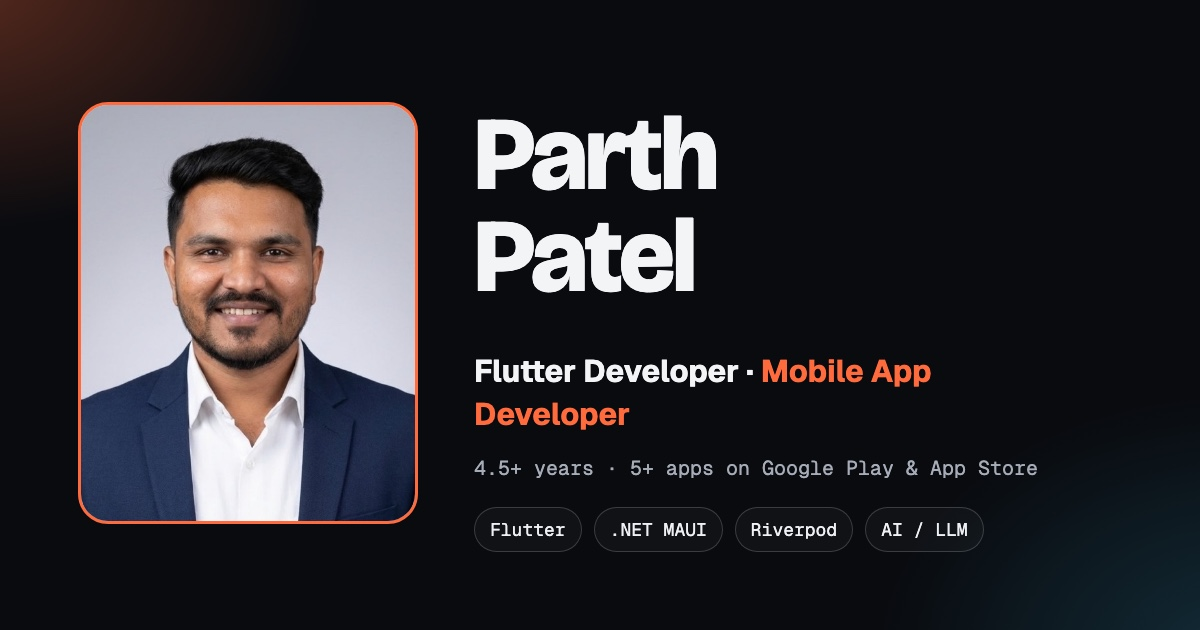
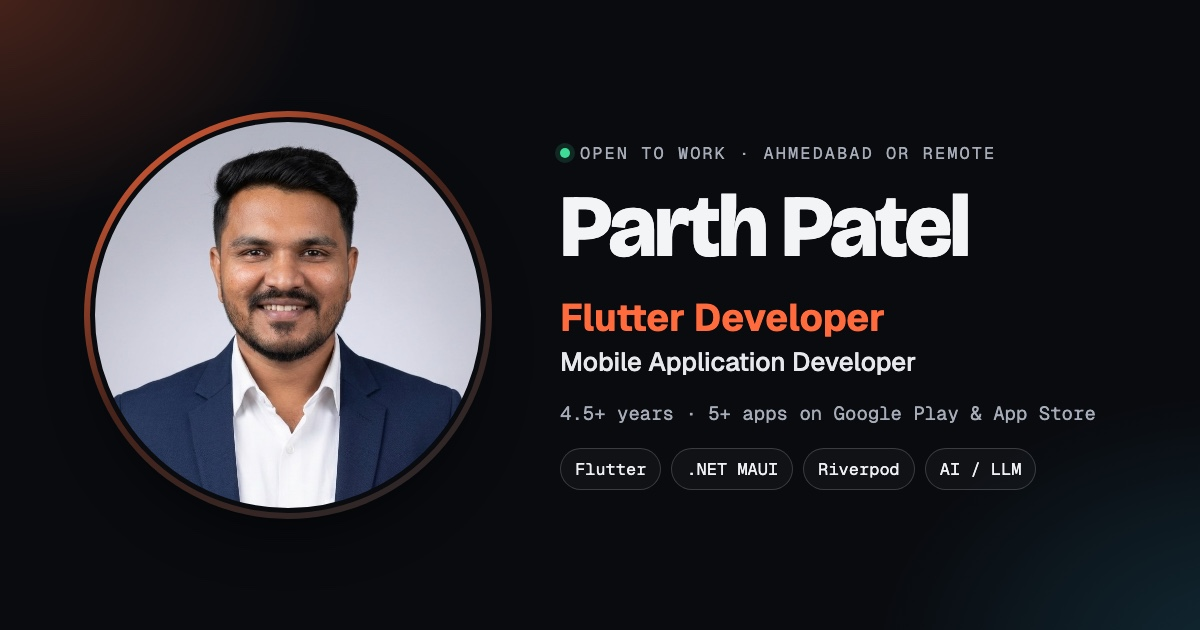
Add files via upload
update files

diff --git a/assets/style.css b/assets/style.css
@@ -621,6 +621,9 @@ kbd { font-family: var(--font-mono); font-size: .78em; padding: .15em .5em; bord
 .project:nth-child(even) .project-visual .phone { transform: rotate(3deg); }
 .project-inner:hover .project-visual .phone { transform: rotate(0deg) translateY(-6px); }
 
+.app-proof { display: flex; flex-wrap: wrap; gap: 8px; }
+.app-proof span { padding: .34em .78em; border-radius: 99px; font-family: var(--font-mono); font-size: .76rem; color: var(--muted); border: 1px solid color-mix(in srgb, var(--tone, var(--accent)) 38%, transparent); background: color-mix(in srgb, var(--tone, var(--accent)) 9%, transparent); }
+.app-proof b { color: var(--text); font-weight: 600; }
 .store-links { display: flex; flex-wrap: wrap; gap: 10px; margin-top: 6px; }
 .store-btn { display: inline-flex; align-items: center; gap: 10px; height: 46px; padding: 0 16px 0 12px; border-radius: 12px; background: var(--text); color: var(--bg); border: 1px solid var(--text); transition: transform .35s var(--ease), box-shadow .35s; }
 .store-btn:hover { transform: translateY(-2px); box-shadow: 0 12px 26px -14px var(--text); }
@@ -785,6 +788,8 @@ kbd { font-family: var(--font-mono); font-size: .78em; padding: .15em .5em; bord
 .c-link:hover { border-color: var(--accent); transform: translateY(-3px); }
 .c-ico { display: grid; place-items: center; width: 44px; height: 44px; border-radius: 13px; background: var(--accent-soft); color: var(--accent); }
 .c-ico svg { width: 20px; height: 20px; }
+.c-ico-wa { background: color-mix(in srgb, #25D366 16%, transparent); color: #25D366; }
+.c-wide { grid-column: 1 / -1; }
 .c-label { font-size: .7rem; text-transform: uppercase; letter-spacing: .12em; color: var(--muted); }
 .c-value { display: block; font-weight: 550; overflow-wrap: anywhere; }
 a.c-value:hover { color: var(--accent); }
